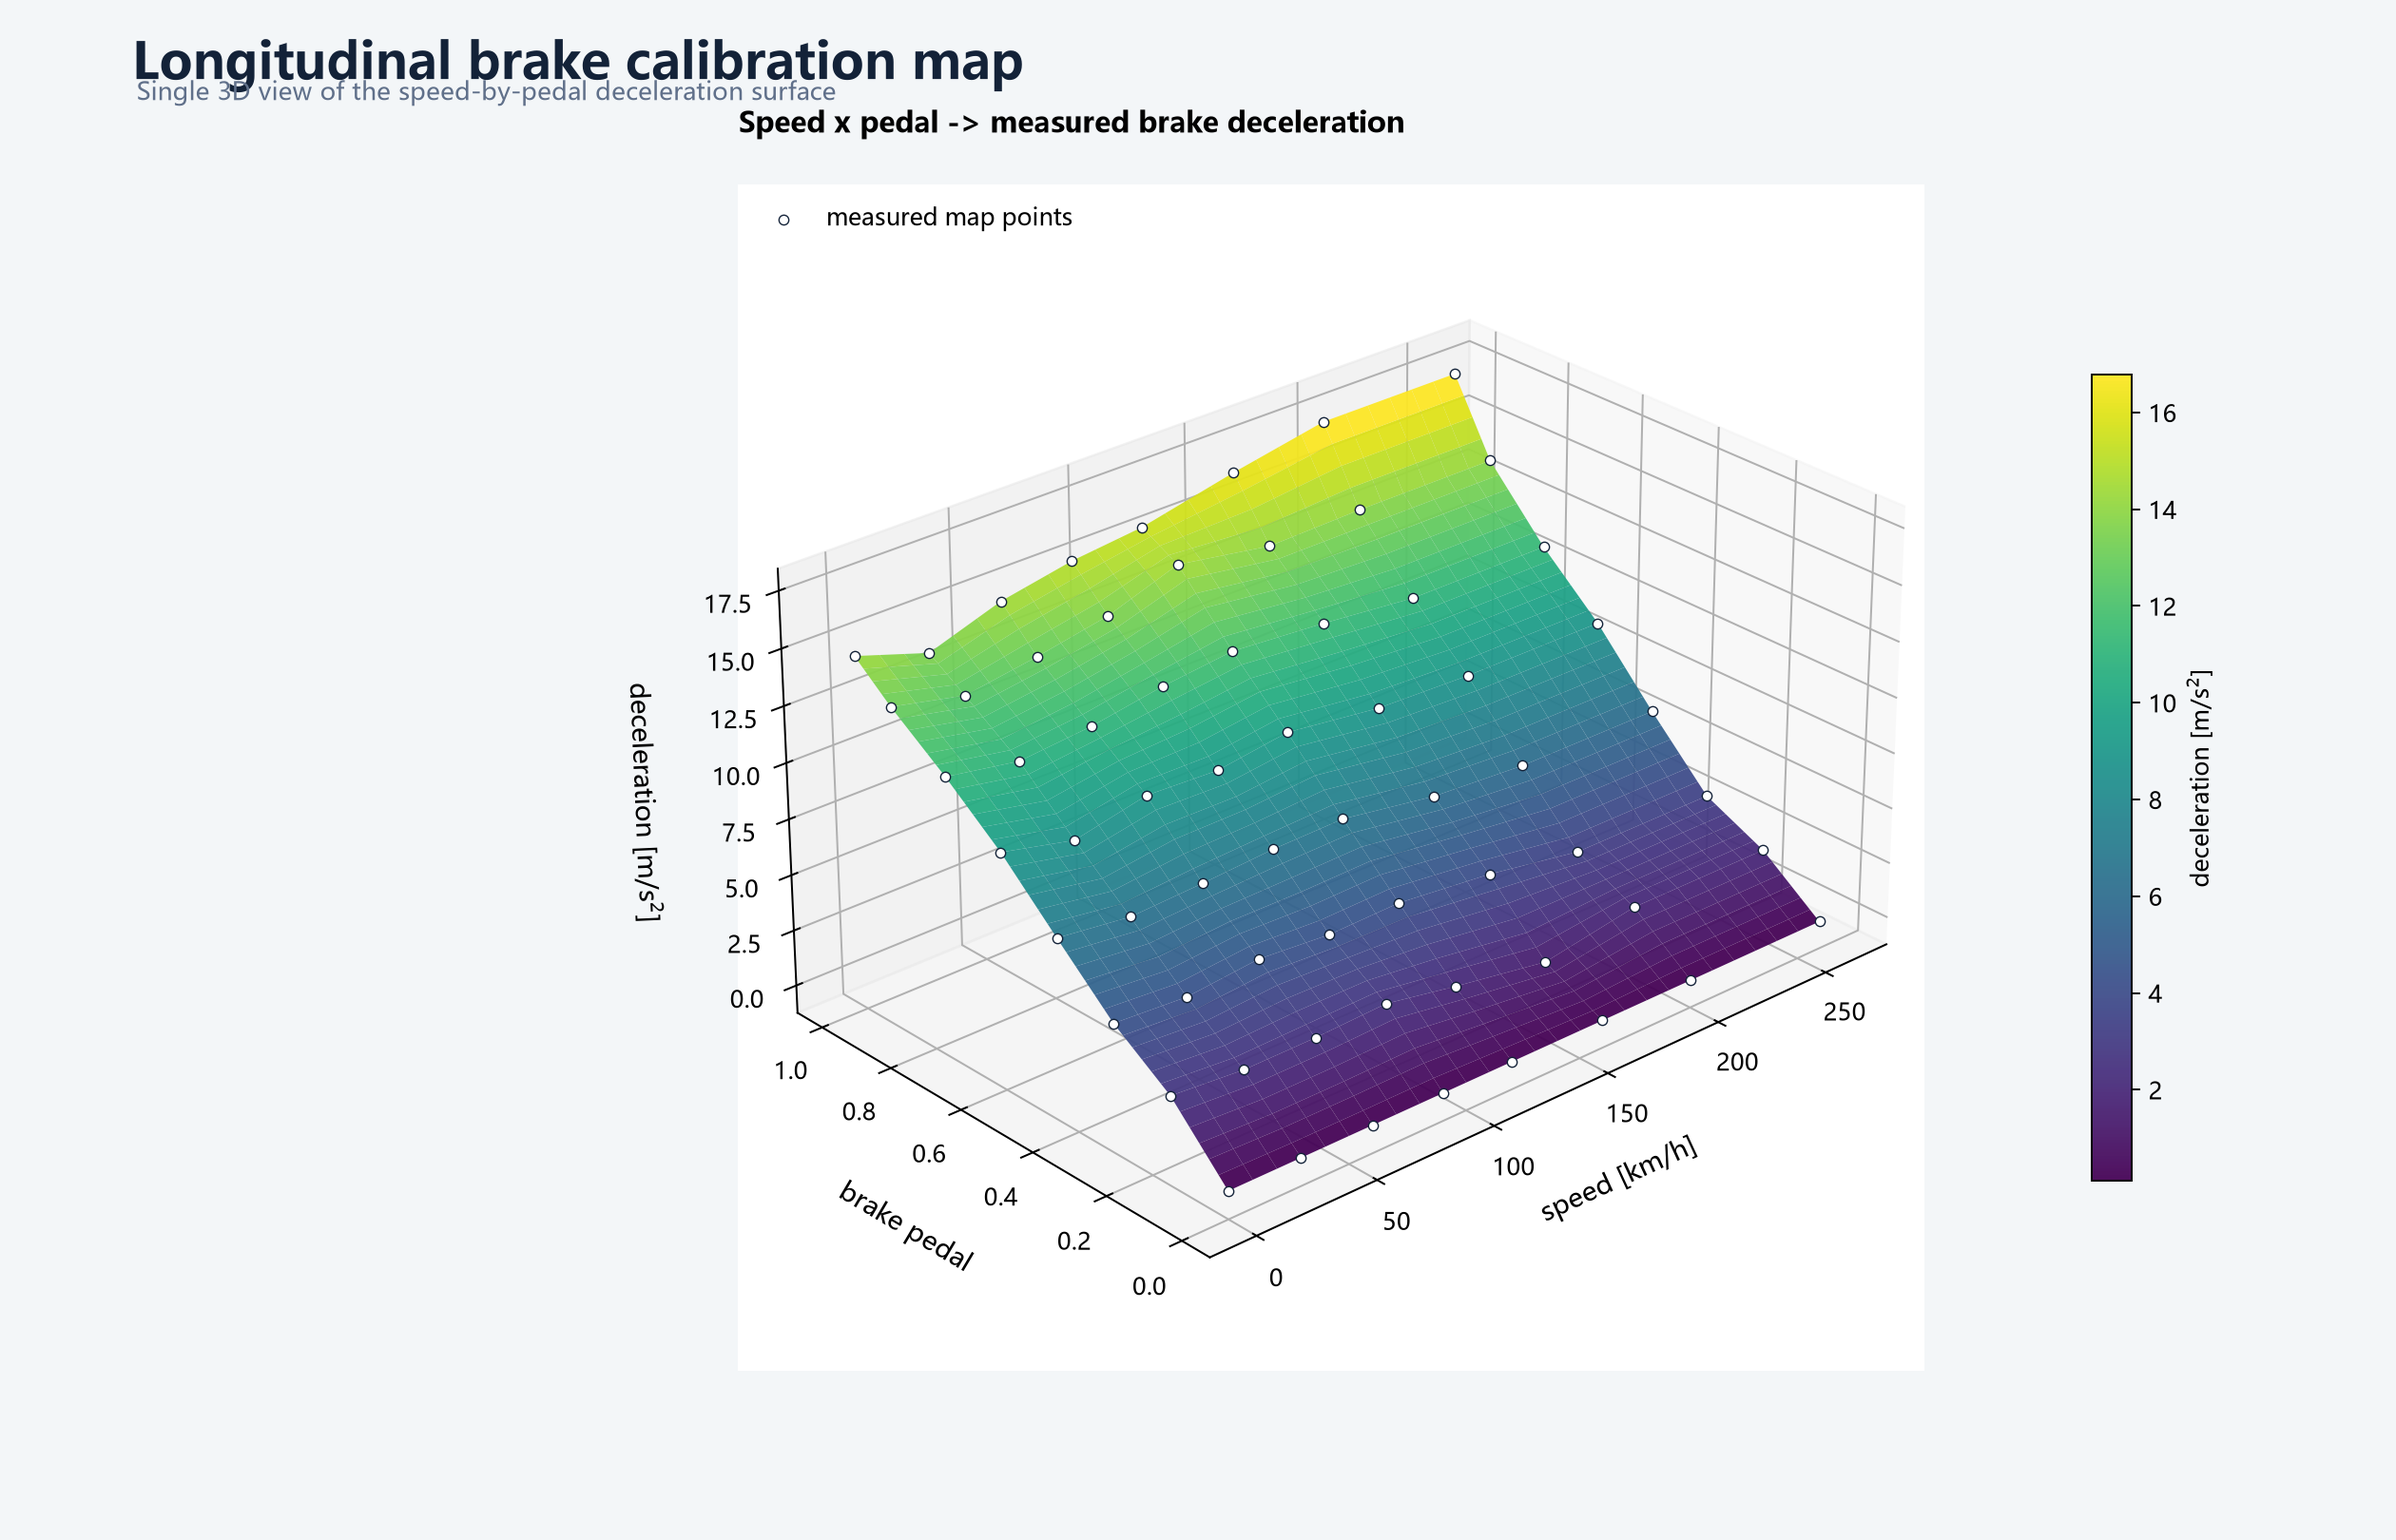
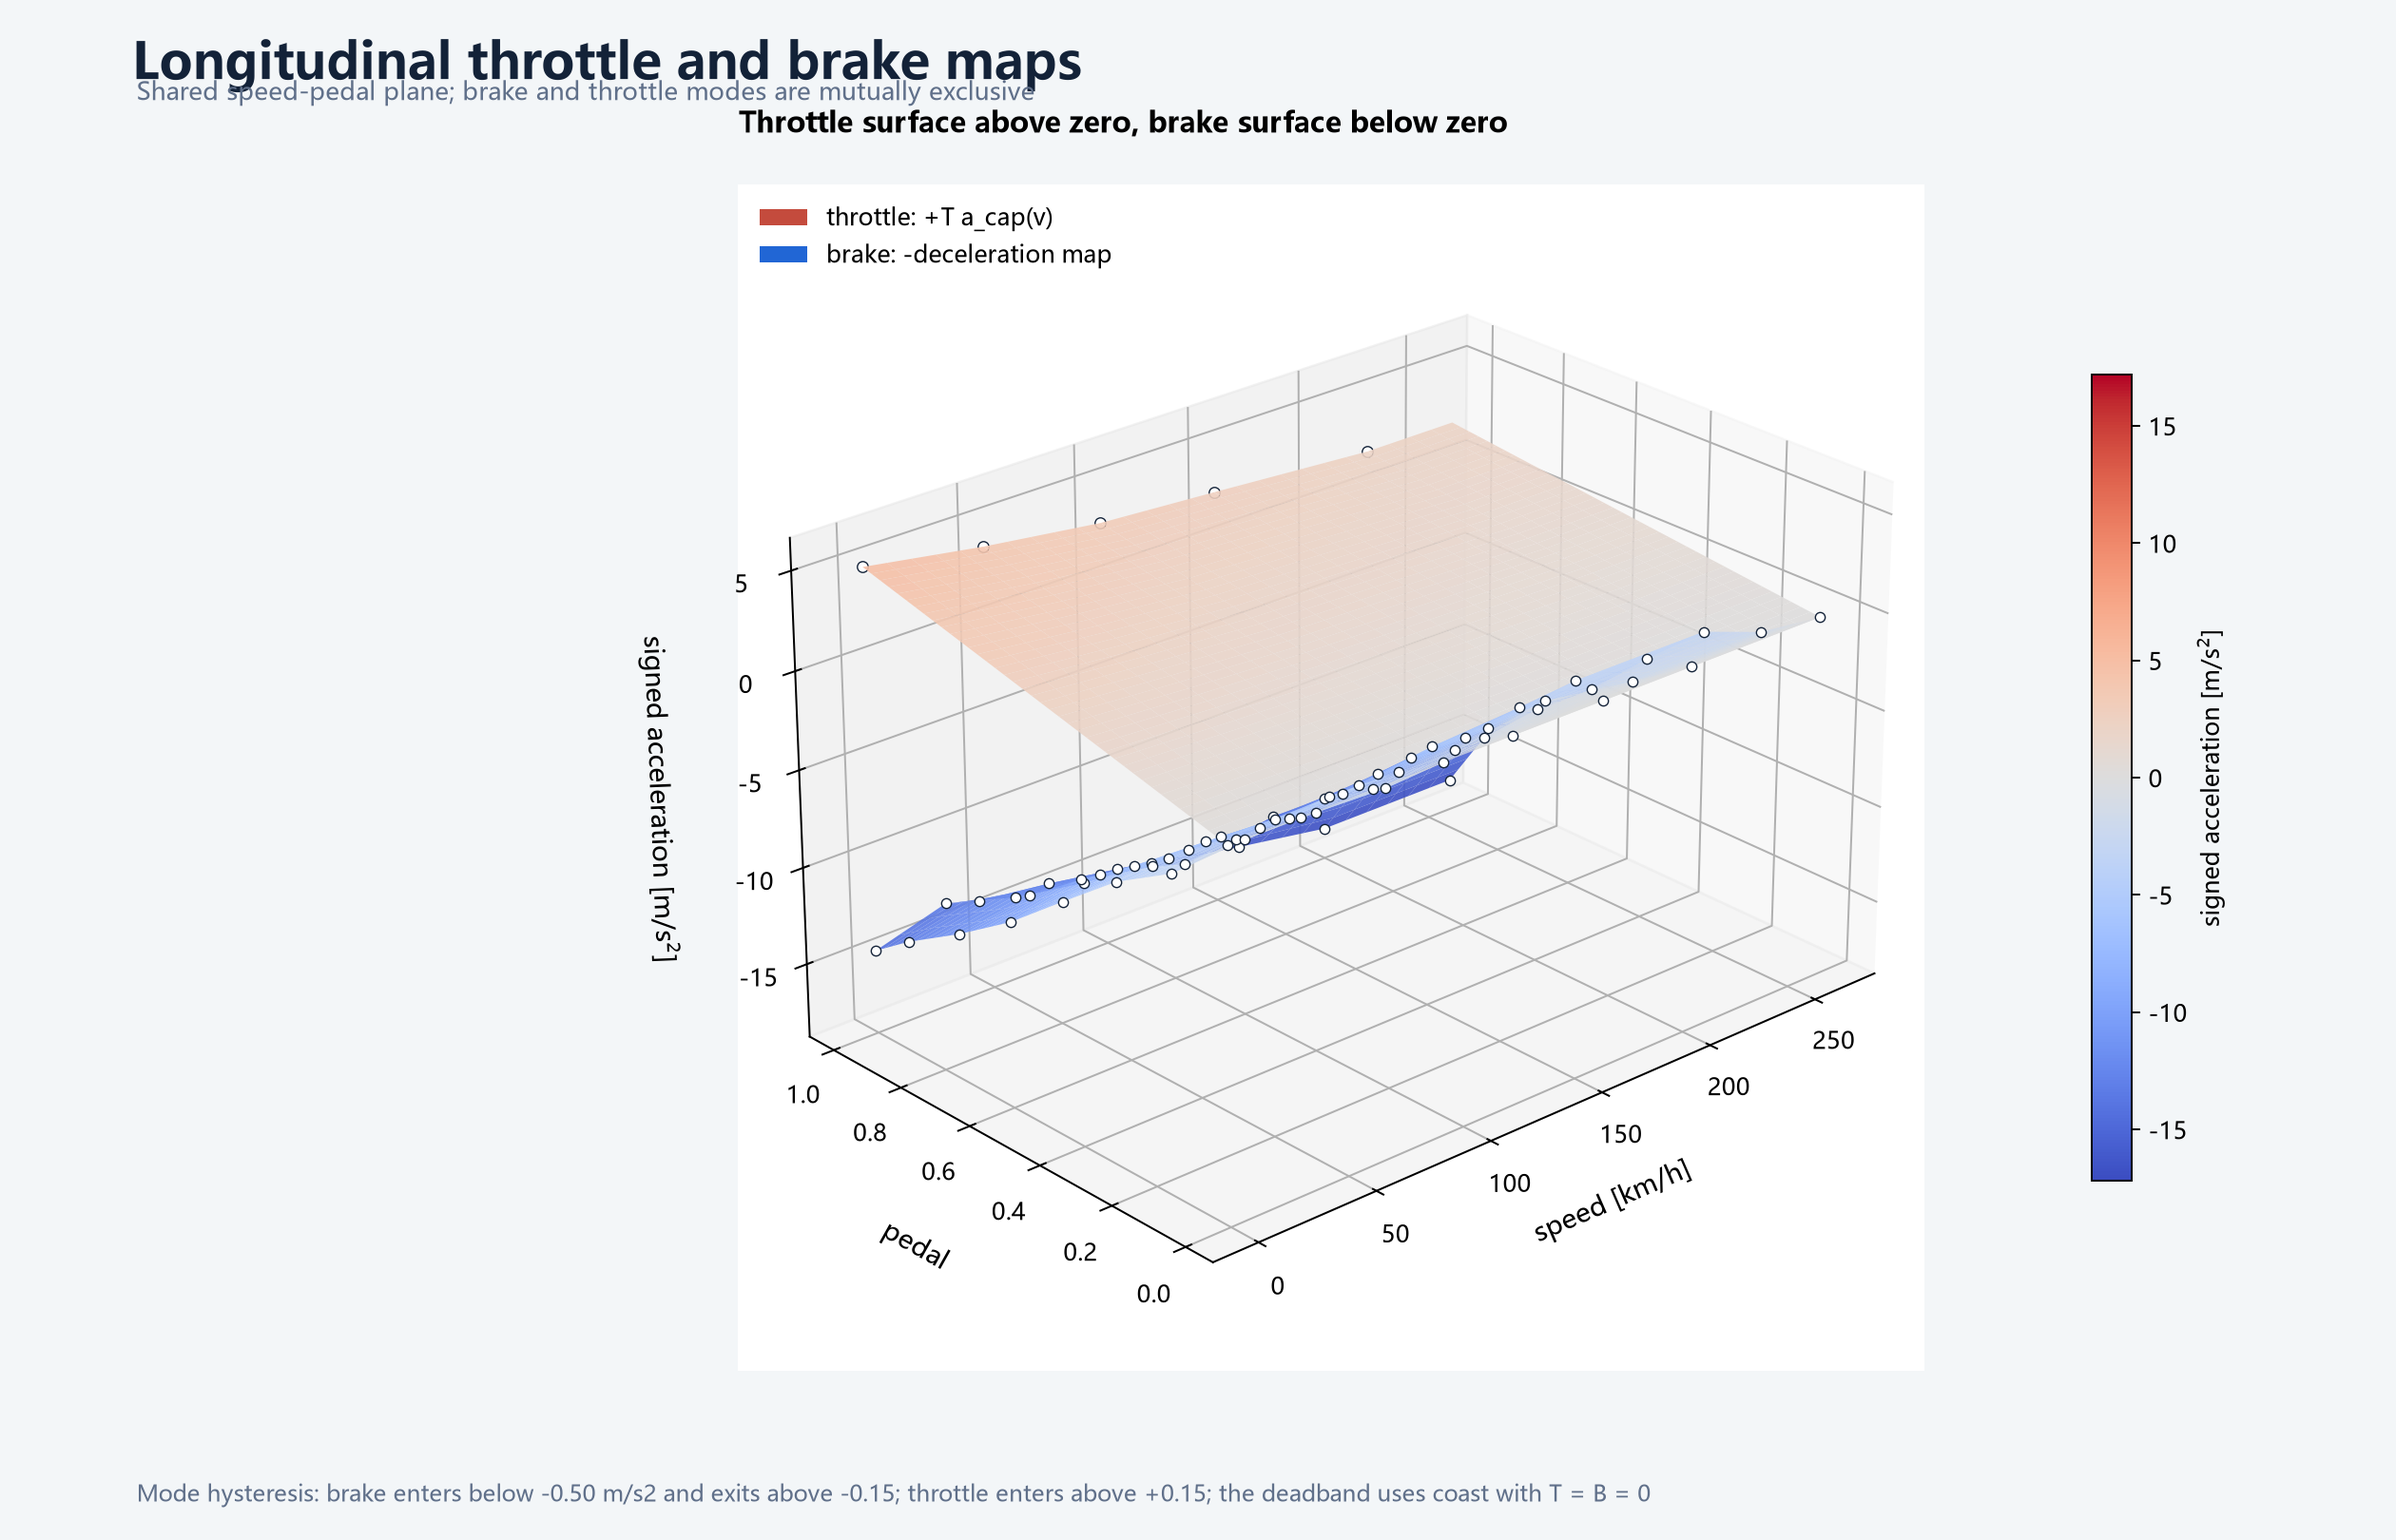
Add throttle surface to longitudinal map

diff --git a/tools/build_model_diagnostics.py b/tools/build_model_diagnostics.py
@@ -7,7 +7,8 @@ from pathlib import Path
 import matplotlib.pyplot as plt
 import numpy as np
 import pandas as pd
-from matplotlib.patches import FancyArrowPatch, FancyBboxPatch
+from matplotlib.colors import TwoSlopeNorm
+from matplotlib.patches import FancyArrowPatch, FancyBboxPatch, Patch
 from scipy.interpolate import RegularGridInterpolator
 
 from actc.longitudinal import LongitudinalPedalConfig
@@ -635,64 +636,122 @@ def build_longitudinal_maps() -> dict[str, object]:
         dense_pedal,
         indexing="ij",
     )
-    deceleration_mesh = interpolator(
+    brake_deceleration_mesh = interpolator(
         np.column_stack((speed_mesh.ravel(), pedal_mesh.ravel()))
     ).reshape(speed_mesh.shape)
+    acceleration_capability_mesh = np.interp(
+        speed_mesh,
+        acceleration_speed,
+        acceleration_capability,
+    )
+    throttle_acceleration_mesh = (
+        pedal_mesh * acceleration_capability_mesh
+    )
     measured_speed_mesh, measured_pedal_mesh = np.meshgrid(
         brake_speed,
         brake_pedal,
         indexing="ij",
     )
+    _, measured_acceleration_pedal_mesh = np.meshgrid(
+        acceleration_speed,
+        np.asarray((1.0,)),
+        indexing="ij",
+    )
+
+    signed_max = float(
+        max(
+            np.max(throttle_acceleration_mesh),
+            np.max(brake_deceleration),
+        )
+    )
+    color_norm = TwoSlopeNorm(
+        vmin=-signed_max,
+        vcenter=0.0,
+        vmax=signed_max,
+    )
 
     fig = plt.figure(figsize=(14, 9), facecolor=COLORS["paper"])
     ax = fig.add_subplot(111, projection="3d")
     ax.set_facecolor(COLORS["white"])
-    surface = ax.plot_surface(
+    throttle_surface = ax.plot_surface(
         speed_mesh,
         pedal_mesh,
-        deceleration_mesh,
-        cmap="viridis",
+        throttle_acceleration_mesh,
+        cmap="coolwarm",
+        norm=color_norm,
         linewidth=0,
         antialiased=True,
-        alpha=0.94,
+        alpha=0.90,
+    )
+    brake_surface = ax.plot_surface(
+        speed_mesh,
+        pedal_mesh,
+        -brake_deceleration_mesh,
+        cmap="coolwarm",
+        norm=color_norm,
+        linewidth=0,
+        antialiased=True,
+        alpha=0.90,
     )
     ax.scatter(
         measured_speed_mesh.ravel(),
         measured_pedal_mesh.ravel(),
-        brake_deceleration.ravel(),
+        -brake_deceleration.ravel(),
         color=COLORS["white"],
         edgecolors=COLORS["ink"],
         linewidths=0.55,
         s=17,
         depthshade=False,
-        label="measured map points",
+    )
+    ax.scatter(
+        acceleration_speed,
+        measured_acceleration_pedal_mesh.ravel(),
+        acceleration_capability,
+        color=COLORS["white"],
+        edgecolors=COLORS["ink"],
+        linewidths=0.55,
+        s=21,
+        depthshade=False,
     )
     ax.set_xlabel("speed [km/h]", labelpad=12, fontsize=11)
-    ax.set_ylabel("brake pedal", labelpad=12, fontsize=11)
+    ax.set_ylabel("pedal", labelpad=12, fontsize=11)
     ax.set_zlabel(
-        r"deceleration [m/s$^2$]",
+        r"signed acceleration [m/s$^2$]",
         labelpad=12,
         fontsize=11,
     )
     ax.set_title(
-        "Speed x pedal -> measured brake deceleration",
+        "Throttle surface above zero, brake surface below zero",
         loc="left",
         pad=22,
         fontweight="bold",
     )
-    ax.view_init(elev=27, azim=-132)
-    ax.set_box_aspect((1.45, 1.0, 0.78))
-    ax.legend(frameon=False, loc="upper left")
+    ax.view_init(elev=25, azim=-132)
+    ax.set_box_aspect((1.45, 1.0, 0.88))
+    ax.legend(
+        handles=(
+            Patch(
+                facecolor=COLORS["red"],
+                label="throttle: +T a_cap(v)",
+            ),
+            Patch(
+                facecolor=COLORS["blue"],
+                label="brake: -deceleration map",
+            ),
+        ),
+        frameon=False,
+        loc="upper left",
+    )
     colorbar = fig.colorbar(
-        surface,
+        plt.cm.ScalarMappable(norm=color_norm, cmap="coolwarm"),
         ax=ax,
         shrink=0.68,
         pad=0.09,
         fraction=0.035,
     )
-    colorbar.set_label(r"deceleration [m/s$^2$]")
+    colorbar.set_label(r"signed acceleration [m/s$^2$]")
     fig.suptitle(
-        "Longitudinal brake calibration map",
+        "Longitudinal throttle and brake maps",
         x=0.055,
         y=0.975,
         ha="left",
@@ -703,9 +762,18 @@ def build_longitudinal_maps() -> dict[str, object]:
     fig.text(
         0.057,
         0.935,
-        "Single 3D view of the speed-by-pedal deceleration surface",
+        "Shared speed-pedal plane; brake and throttle modes are mutually exclusive",
         ha="left",
         fontsize=10.5,
+        color=COLORS["muted"],
+    )
+    fig.text(
+        0.057,
+        0.025,
+        "Mode hysteresis: brake enters below -0.50 m/s2 and exits above -0.15; "
+        "throttle enters above +0.15; the deadband uses coast with T = B = 0",
+        ha="left",
+        fontsize=9.5,
         color=COLORS["muted"],
     )
     fig.savefig(FIGURE_DIR / "longitudinal_maps.png", dpi=180)

diff --git a/docs/TECHNICAL_REPORT.md b/docs/TECHNICAL_REPORT.md
@@ -576,10 +576,20 @@ $$
 
 ![Longitudinal calibration maps](../assets/figures/longitudinal_maps.png)
 
-图中把刹车二维 MAP 展开为单个三维曲面：横轴是速度，纵轴是刹车踏板，
-高度是实测减速度，白色圆点对应表中的实测标定点。
-刹车控制按目标减速度在速度方向上插值，再沿踏板方向反查，
-不是把 MPC 输出的负加速度直接乘以一个固定比例。
+图中把油门和刹车放在同一个“速度 × 踏板 → 带符号加速度”坐标系中：
+
+- 零平面上方是油门加速曲面，由 $T a_{\mathrm{cap}}(v)$ 展开。
+- 零平面下方是实测刹车减速度曲面的负值。
+- 白色圆点对应油门能力和刹车表的实测标定点。
+
+模式切换使用滞回，避免油门和刹车在零附近来回抖动：
+
+- $a_{\mathrm{prop}}<-0.50$ 时进入刹车模式，回到 $a_{\mathrm{prop}}>-0.15$ 后退出。
+- $a_{\mathrm{prop}}>+0.15$ 时进入油门模式，回落到阈值以下后退出。
+- 中间死区使用滑行模式，油门和刹车同时为零。
+
+油门和刹车模式互斥。刹车控制按目标减速度在速度方向上插值，
+再沿踏板方向反查；不是把 MPC 输出的负加速度直接乘以一个固定比例。
 
 ### 4.6 回放验证
 

diff --git a/README.md b/README.md
@@ -100,7 +100,7 @@ Read `docs/QUICKSTART.md` for the complete workflow.
 ## Model details
 
 - [Lateral model replay validation](assets/figures/model_replay_comparison.png)
-- [Longitudinal brake calibration map](assets/figures/longitudinal_maps.png)
+- [Longitudinal throttle and brake maps](assets/figures/longitudinal_maps.png)
 - [MPC weight scheduling](assets/figures/weight_schedules.png)
 - [Coupled speed planning](assets/figures/coupled_speed_planning.png)
 - [Lateral model identification](assets/figures/model_identification.png)

diff --git a/docs/FIGURES.md b/docs/FIGURES.md
@@ -79,8 +79,8 @@ long-horizon vehicle simulation.
 
 ![Longitudinal calibration maps](../assets/figures/longitudinal_maps.png)
 
-A single 3D surface shows the measured speed-by-pedal brake deceleration map
-used by the pedal mapper.
+A single 3D view combines the throttle acceleration surface and the measured
+brake deceleration surface, with signed acceleration separating the two modes.
 
 ## Weight scheduling
 
